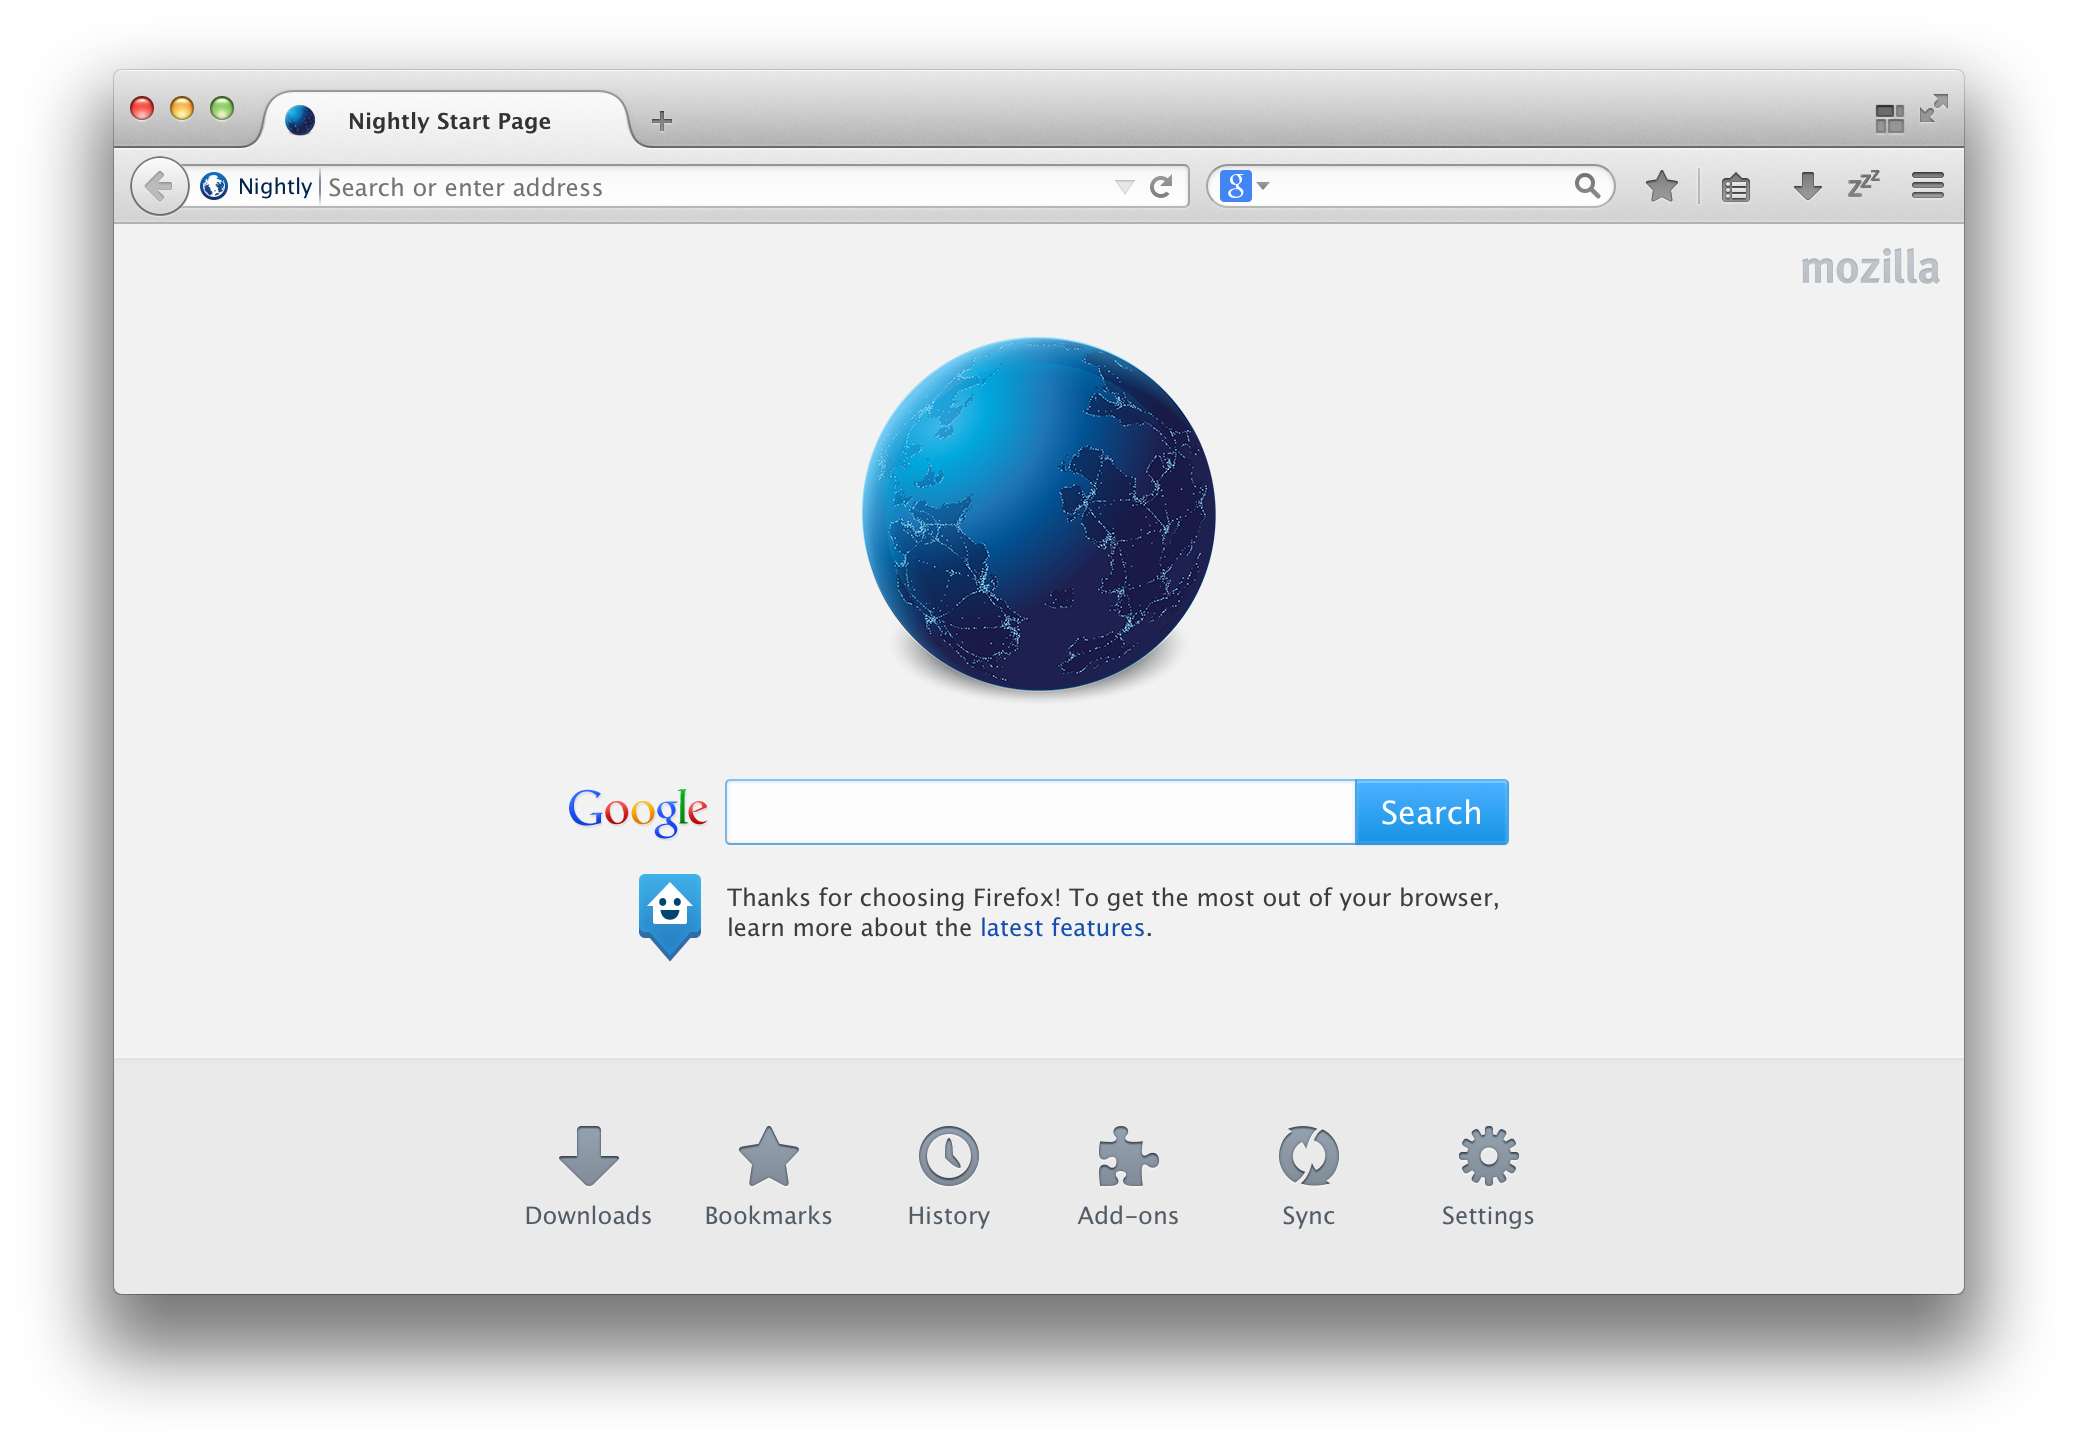
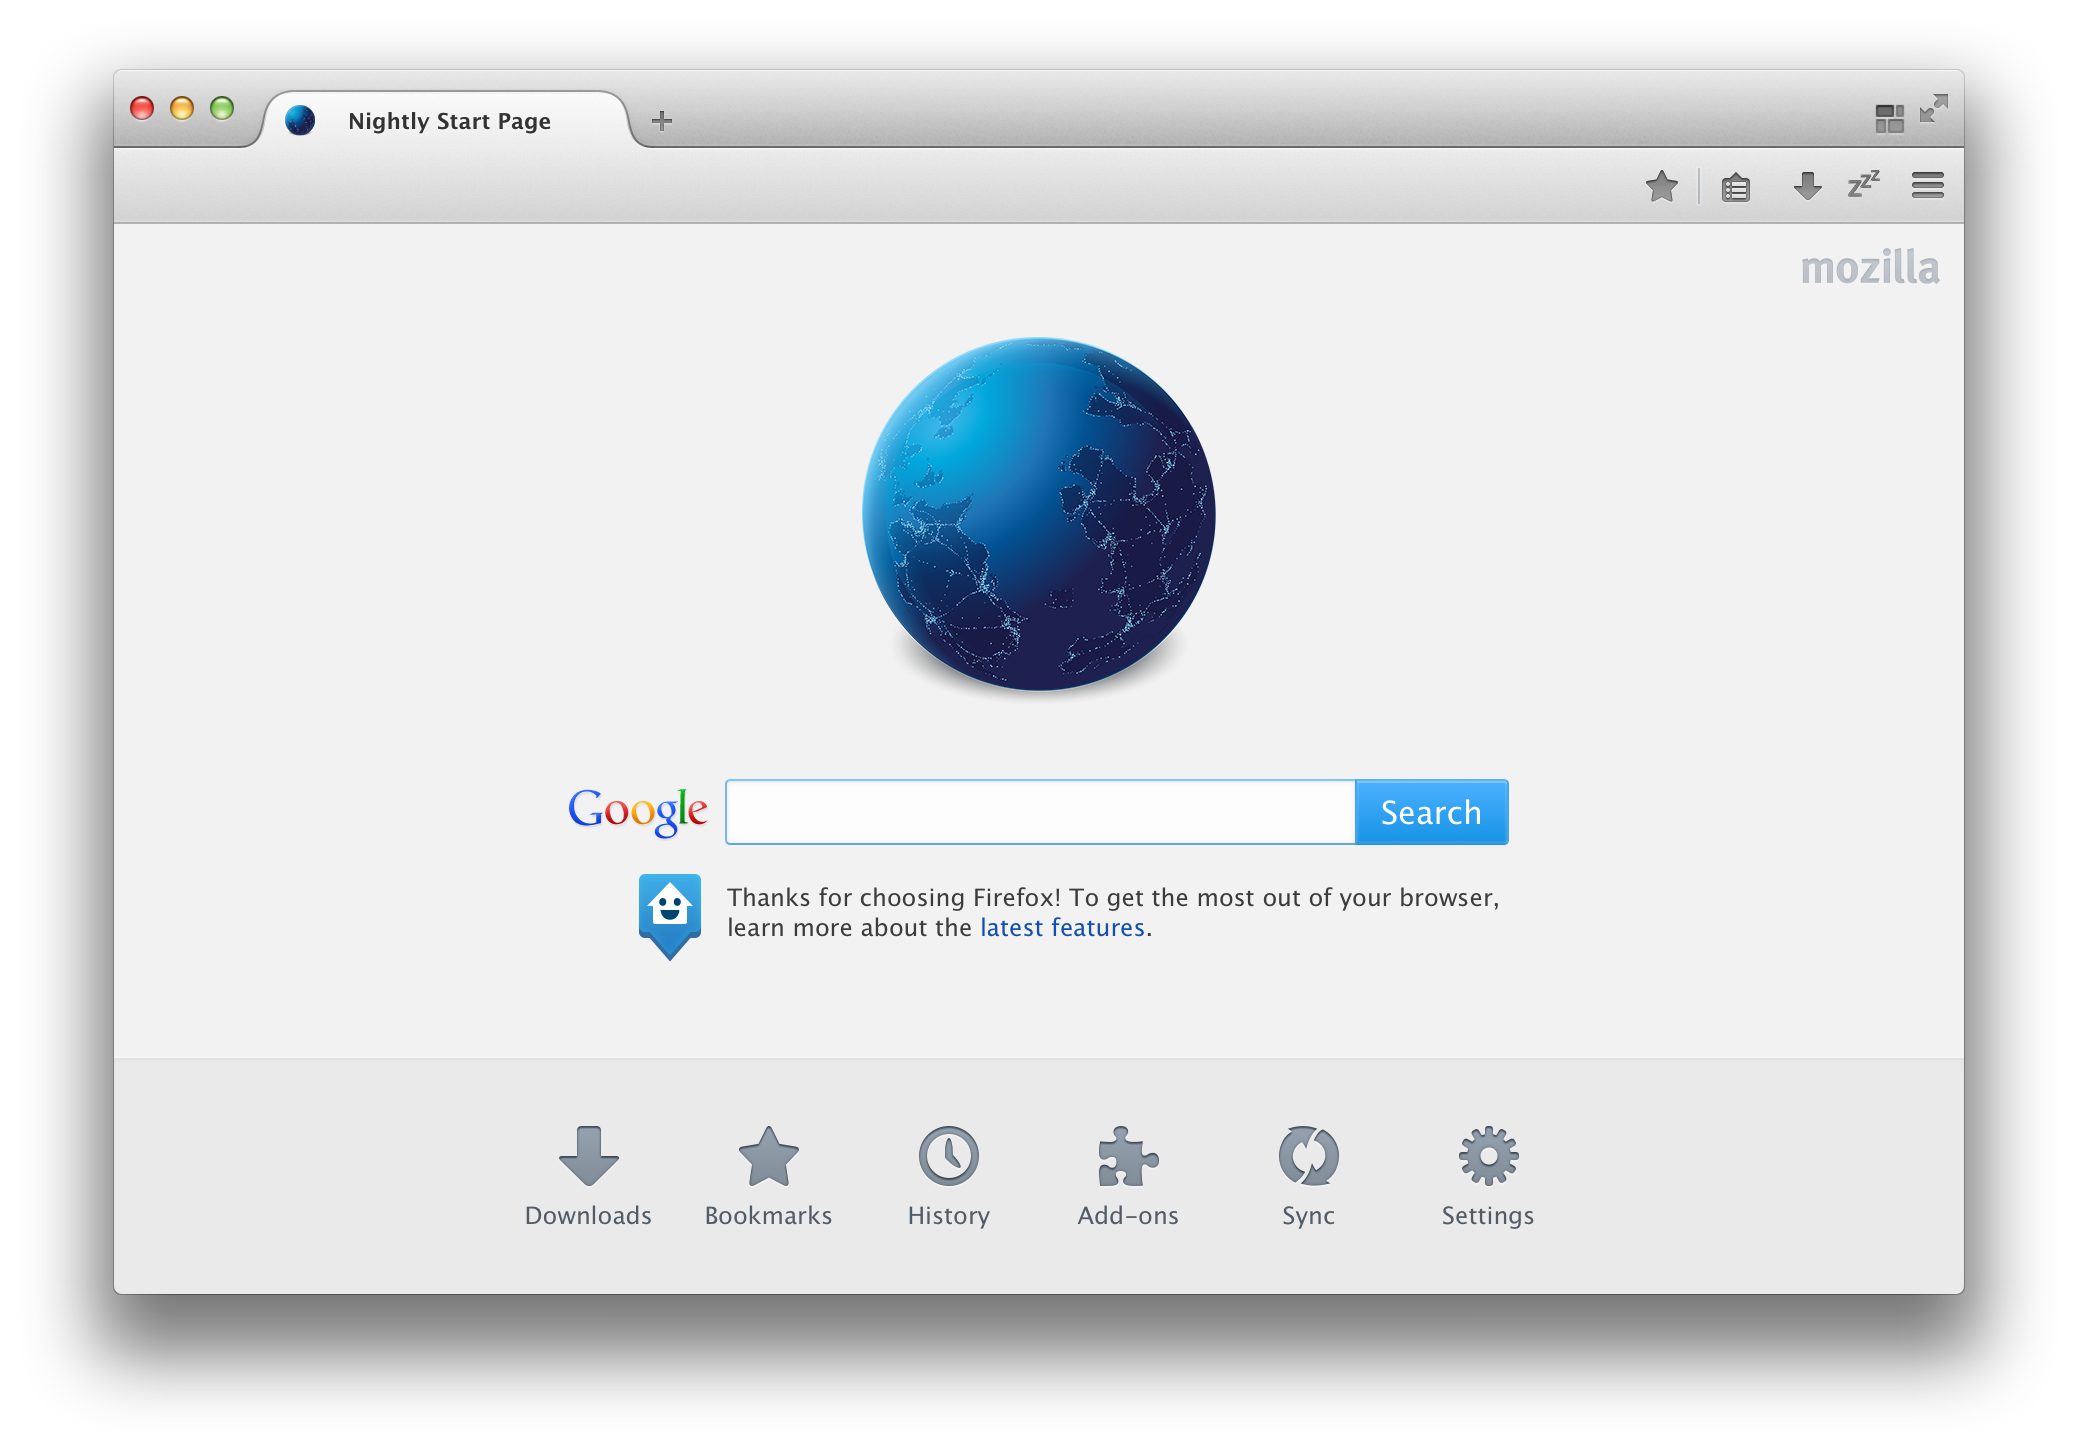
add animation of location bar and search field

Changed region(s): [[0.0616, 0.093, 0.77, 0.155]]

diff --git a/prototype/css/styles.css b/prototype/css/styles.css
@@ -6,14 +6,24 @@
   background-size: 100%;
 }
 
-.content {
+.content, .site {
   position: absolute;
-  left: 58px;
-  top: 112px;
   width: 925px;
   height: 535px;
+}
+
+.content {
+  left: 57px;
+  top: 112px;
   background-color: #fff;
   overflow: hidden;
+}
+.site {
+  background-size: 100%;
+  background-image: url('../img/site.png');
+}
+.customize .site {
+  display: none;
 }
 
 .panel {
@@ -117,4 +127,37 @@ h1 {
 .customize .button-container {
   opacity: 1;
   transform: none;
+}
+
+.toolbar {
+  position: absolute;
+  top: 74px;
+  left: 57px;
+  width: 925px;
+  height: 37px;
+}
+
+.location-bar {
+  width: 534px;
+  height: 37px;
+  margin-left: 7px;
+  float: left;
+  background-image: url('../img/location-bar-end.png'), url('../img/location-bar.png');
+  background-size: auto 100%;
+  background-position: top right, top left;
+  background-repeat: no-repeat;
+  transition: all 0.3s ease;
+}
+.customize .location-bar {
+  width: 200px;
+  margin-left: 40px;
+  opacity: 0.4;
+}
+.search-field {
+  width: 211px;
+  height: 37px;
+  float: left;
+  margin-left: 3px;
+  background-image: url('../img/search-bar.png');
+  background-size: 100%;
 }

diff --git a/prototype/index.html b/prototype/index.html
@@ -9,8 +9,13 @@
 <body>
 
   <div class="window">
+    <div class="toolbar">
+      <div class="location-bar"></div>
+      <div class="search-field"></div>
+    </div>
     <div class="panel"></div>
     <div class="content">
+      <div class="site"></div>
       <div class="button-container">
         <h1>More Tools to Add to the Menu and Toolbar</h1>
         <div class="button"></div>
